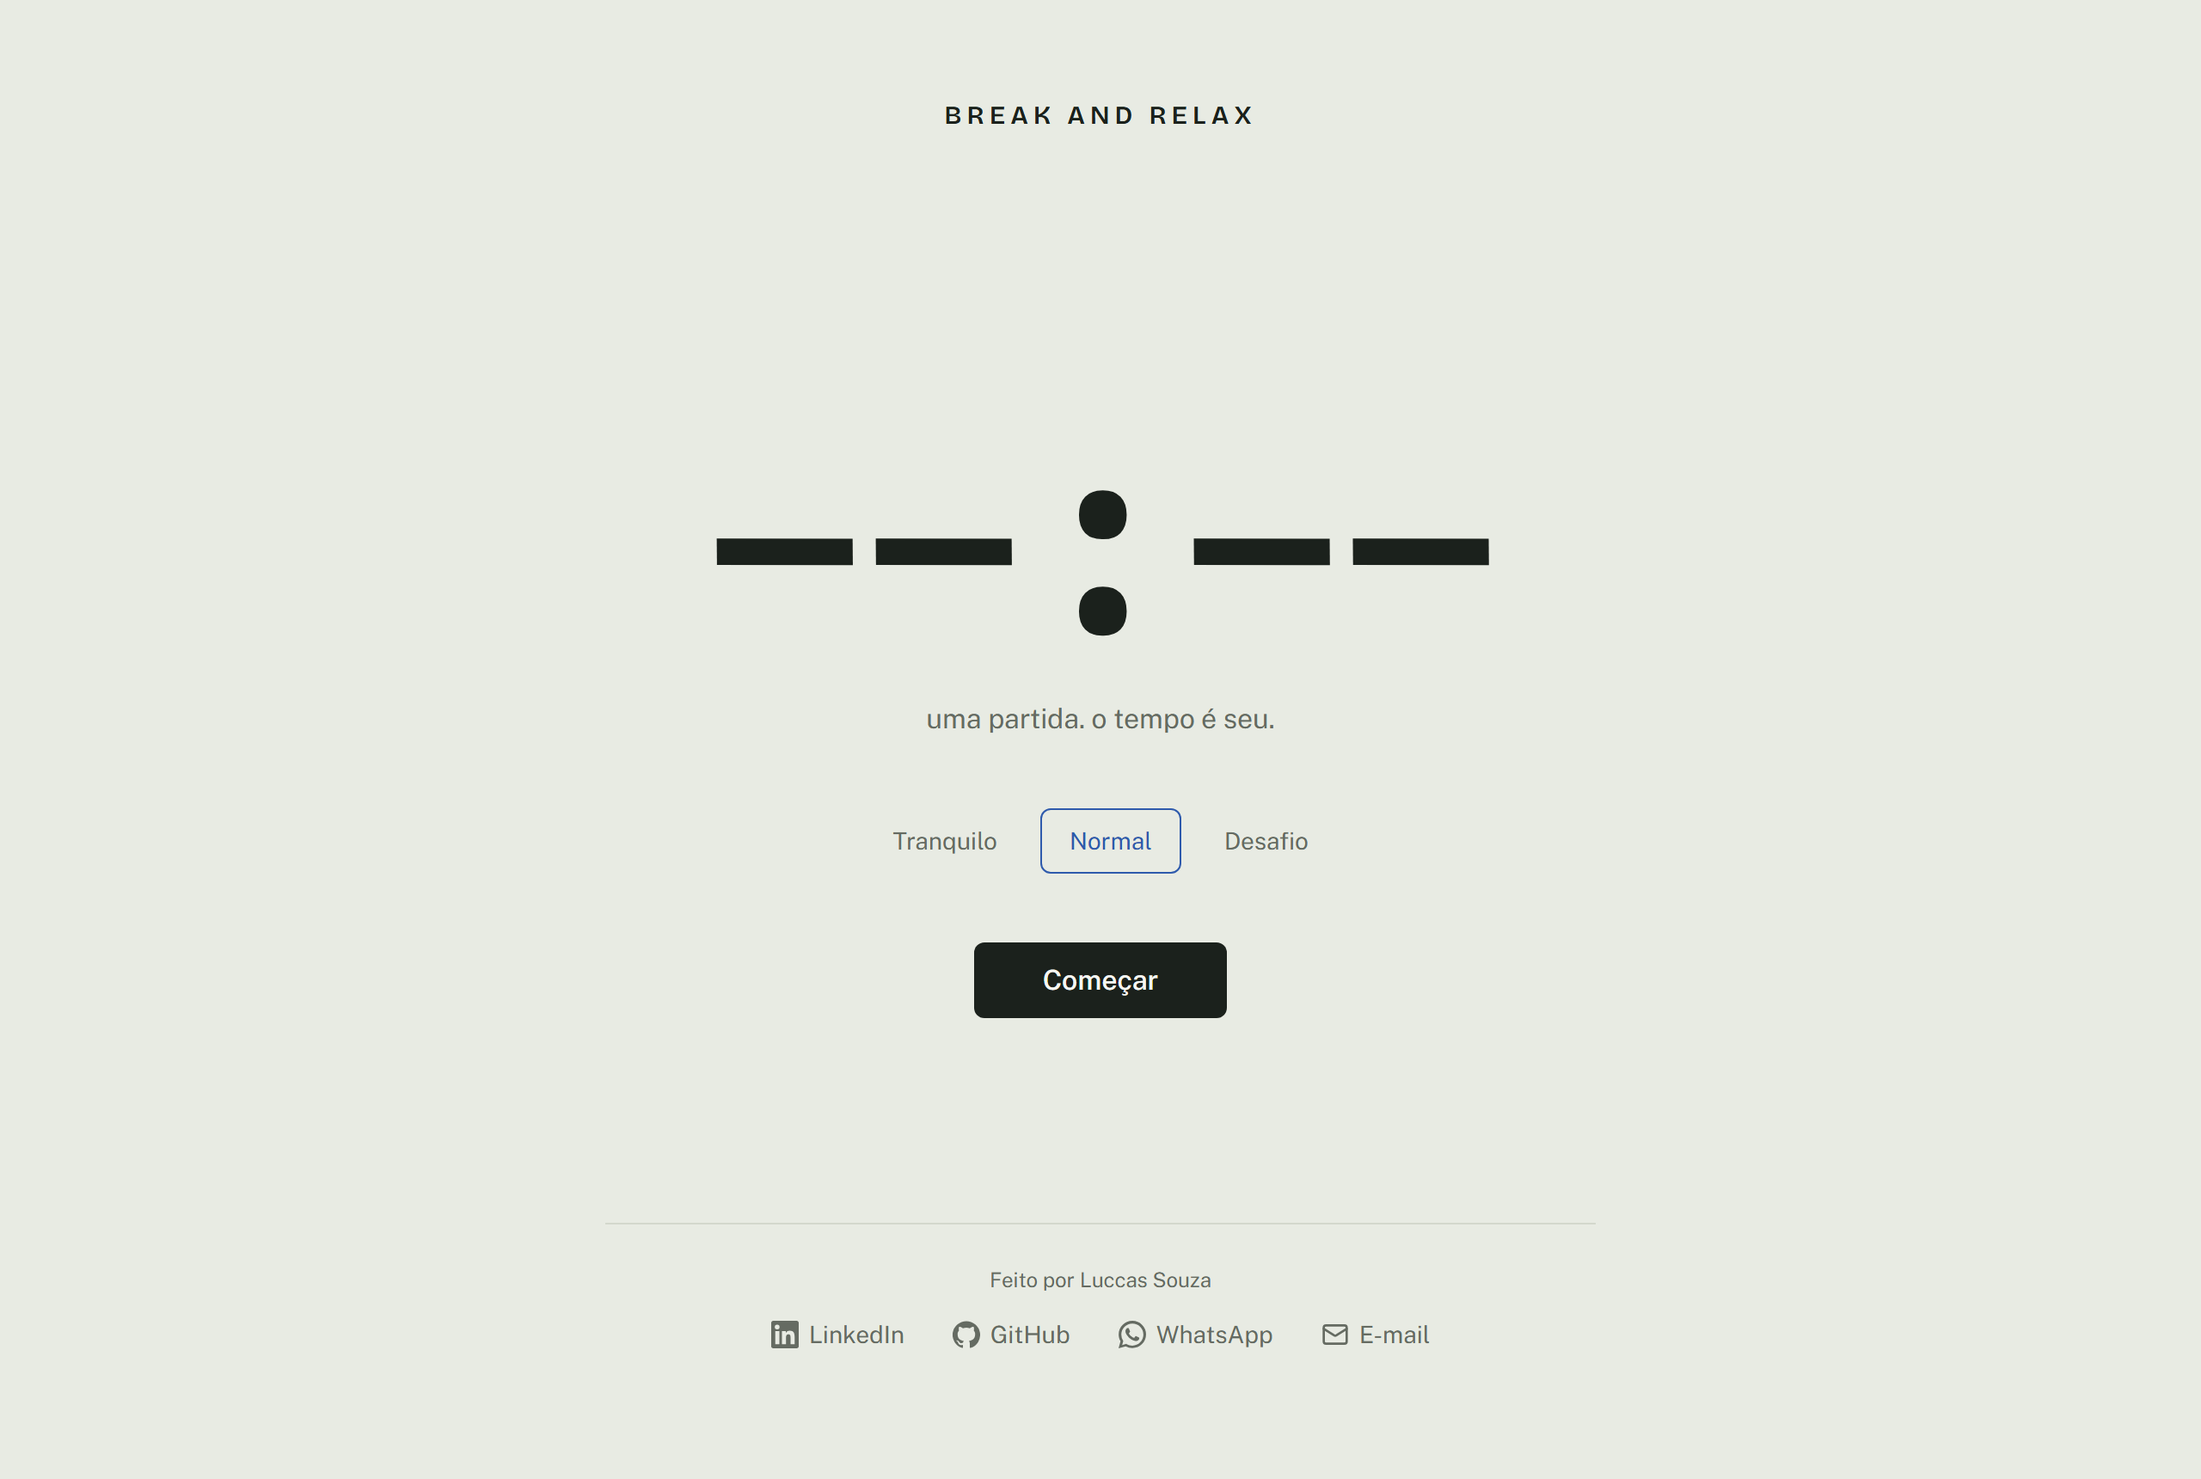
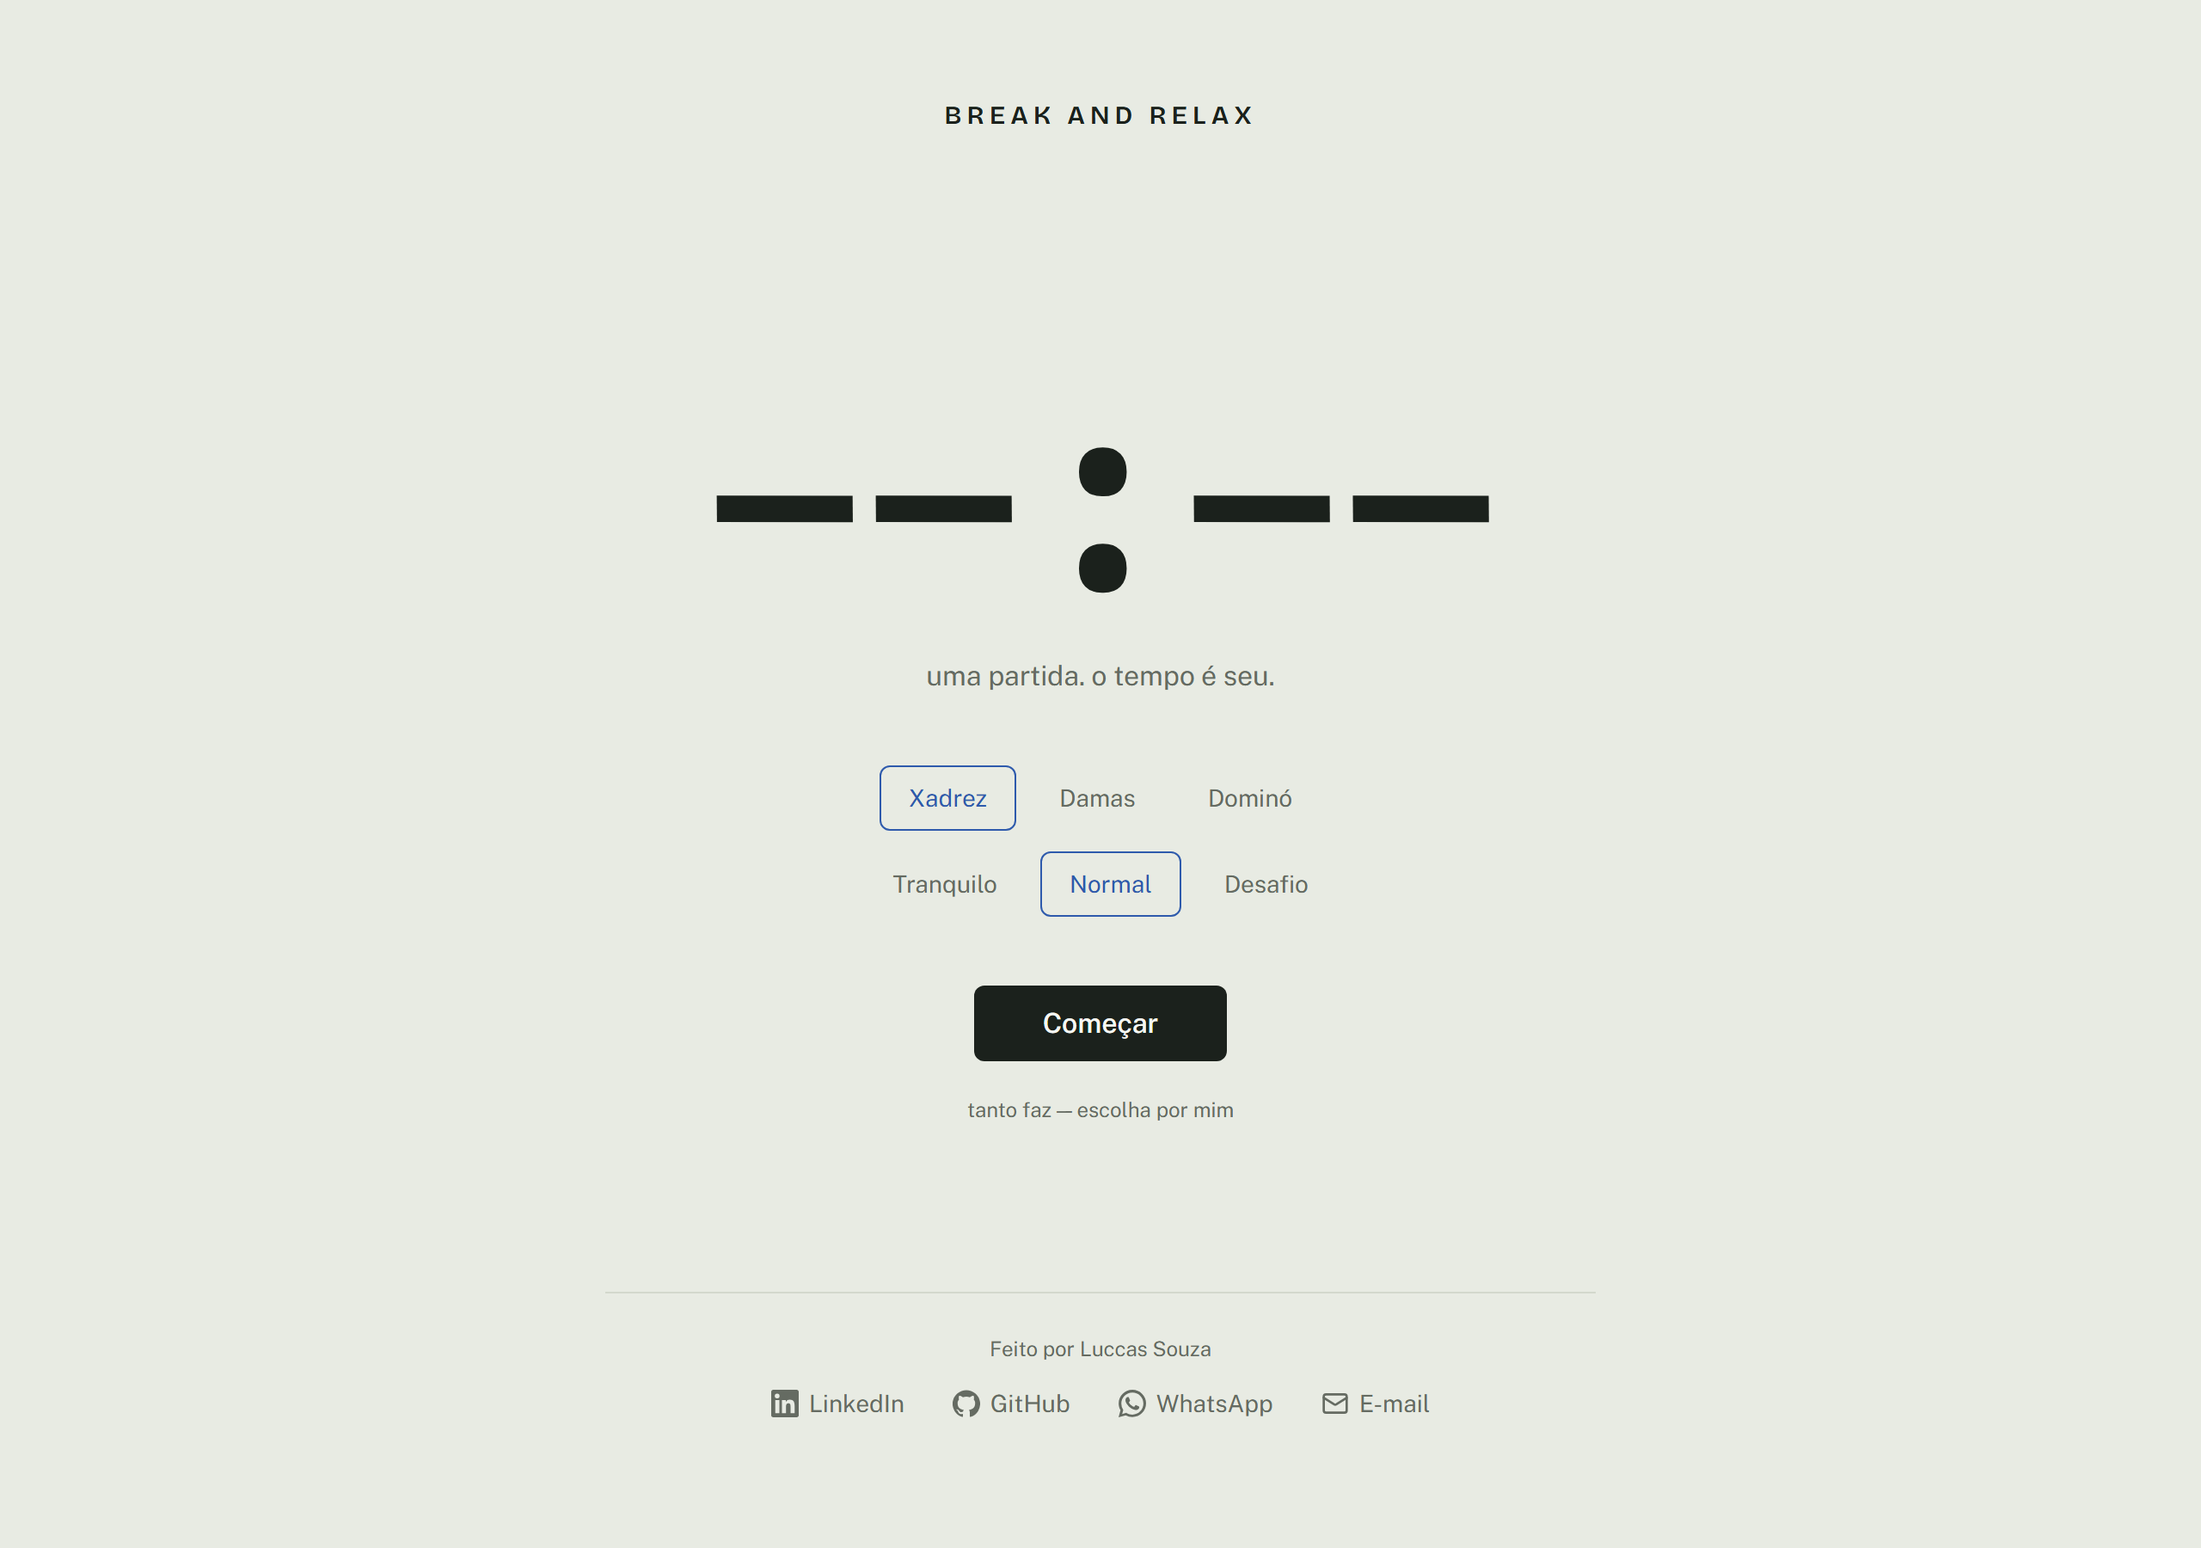
Verify the budgets and document the three games
Centring measured across all three games at 360, 768, 1440 and 2560px, with
the side column empty and full: 0.0px deviation in all twenty-four cases.

Architecture invariants checked against the production build, not asserted:
opening one game downloads only its own chunk, and the worker that is alive
during a match is gone once the match is left.

Budgets: initial 97.8 KB gzip against a 120 KB ceiling, chess 30.1 KB,
draughts 4.4 KB, dominoes 3.7 KB against 70 KB each, 152.2 KB total excluding
fonts against 400 KB. Lighthouse on this harness reads accessibility 100,
best practices 100, performance 88-91 — the same range the single-game build
measured here, so the two extra games cost nothing.

README rewritten around what actually carries the repository: the contract,
why the shell cannot know what a king is, why dominoes has no minimax, and
the draughts rules written out so nothing is ambiguous.

diff --git a/src/shell/TelaPartida.tsx b/src/shell/TelaPartida.tsx
@@ -194,7 +194,11 @@ export function TelaPartida({
       <div className="grid w-full grid-cols-1 items-start gap-4 md:grid-cols-[minmax(0,1fr)_auto_minmax(0,1fr)] md:gap-6">
         <div className="hidden min-w-0 md:block" aria-hidden="true" />
 
-        <div ref={tabuleiroRef} className="w-full justify-self-center md:w-[min(72vh,40rem)]">
+        <div
+          ref={tabuleiroRef}
+          data-centro
+          className="w-full justify-self-center md:w-[min(72vh,40rem)]"
+        >
           <Tabuleiro
             estado={estado}
             lancesLegais={lancesLegais}

diff --git a/README.md b/README.md
@@ -1,8 +1,8 @@
 # Break And Relax
 
-Um site de uma página onde alguém que está há horas trabalhando joga uma partida de xadrez contra a máquina, do começo ao fim, e volta ao trabalho. A ideia que governa o produto é simples: não queremos que você fique aqui, queremos que você faça uma pausa e volte melhor. O limite não é um cronômetro, é a partida acabar — não existe contagem regressiva, tempo por lance ou aviso de que a pausa está terminando. Sem cadastro, sem ranking, sem streak, sem notificação, sem anúncio. Quando a partida acaba, o site diz uma frase curta e para de falar.
+Um site de uma página onde alguém que está há horas trabalhando joga **uma** partida contra a máquina — xadrez, damas ou dominó —, entende como ela terminou, e volta ao trabalho. A ideia que governa o produto é simples: não queremos que você fique aqui, queremos que você faça uma pausa e volte melhor. O limite não é um cronômetro, é a partida acabar. Sem cadastro, sem ranking, sem streak, sem notificação, sem anúncio.
 
-O relógio é o elemento central da página justamente por não mandar em nada: abre mostrando `--:--`, some por completo durante o jogo, e volta no fim para dizer quanto tempo a pausa levou, quando isso já não importa mais.
+O relógio é o elemento central da página justamente por não mandar em nada: abre mostrando `--:--`, some por completo durante o jogo, e volta no fim contando de `00:00` até quanto a pausa levou — quando isso já não importa mais.
 
 ## Site
 
@@ -12,38 +12,101 @@ https://luccas-souza7.github.io/break-and-relax/
 
 ![Tela de início do Break And Relax](docs/tela-inicio.png)
 
+## Quem perdeu precisa entender por quê
+
+A tela de fim é o oposto de um "você perdeu". O tabuleiro **fica exatamente onde estava, em 100% de opacidade**, as casas que decidiram a partida acendem, e a explicação aparece embaixo — com as casas e as peças reais, nunca um texto genérico.
+
+![Tela de fim, com o mate destacado](docs/tela-fim.png)
+
+Três tipos de destaque: **decisivo** (vinho) responde "por que acabou"; **atacante** (azul) é quem executou; **bloqueado** (hachurado) são as casas para onde o rei não podia ir — é isso que faz um mate ou um afogamento fazer sentido de olhar.
+
 ## Stack
 
 - Vite + React 18 + TypeScript
 - Tailwind CSS v4 (plugin oficial do Vite)
-- chess.js — todas as regras do jogo
-- Motor próprio: minimax com poda alfa-beta, em Web Worker
+- chess.js — todas as regras do xadrez
+- Motor próprio: minimax com poda alfa-beta em Web Worker, um por jogo
 - GSAP (core) para a sequência de animação
 - shadcn/ui (`button`, `dialog`, `tooltip`) e lucide-react
 - Fontes auto-hospedadas via Fontsource: Bricolage Grotesque, Public Sans, Martian Mono
+- `vite-plugin-pwa` só para precache — sem manifesto, sem prompt de instalação
 - Deploy estático via GitHub Actions para GitHub Pages
 
-Não há backend, banco, API em runtime nem CDN. Depois do primeiro carregamento o site funciona offline.
+Não há backend, banco, API em runtime nem CDN.
 
-## Como o motor funciona
+## Arquitetura: uma casca, três jogos
 
-O código do motor está em `src/engine/`.
+O que sustenta este repositório não são os jogos, é a separação entre eles e a casca.
 
-**Avaliação** (`evaluation.ts`) — material (peão 100, cavalo 320, bispo 330, torre 500, dama 900), *piece-square tables* no estilo da avaliação simplificada de Michniewski, com tabela separada de rei para meio-jogo e final, mais um pequeno bônus de mobilidade. Xeque-mate vale ±100000 ajustado pela profundidade, para que um mate mais curto seja preferido.
+`src/shell/` renderiza as telas, cronometra, conversa com o worker e escreve o desfecho **sem saber que jogo está rodando**. Tudo chega por um contrato em [`src/types.ts`](src/types.ts):
 
-**Busca** (`search.ts`) — minimax em forma negamax com poda alfa-beta, ordenação de lances por MVV-LVA (capturas de peça valiosa por peça barata primeiro, promoções em seguida) e aprofundamento iterativo. Cada nível tem um teto rígido de tempo: quando o tempo acaba no meio de uma iteração, a iteração inteira é descartada e a resposta vem da última profundidade que terminou de verdade — uma profundidade pela metade joga pior que uma profundidade menor completa.
+```ts
+interface Jogo<Estado, Lance> {
+  id: 'xadrez' | 'damas' | 'domino'
+  nome: string
+  criarEstado(): Estado
+  lancesLegais(e: Estado): Lance[]
+  aplicar(e: Estado, l: Lance): Estado
+  encerrar(e: Estado): Estado
+  vezDe(e: Estado): 'humano' | 'maquina'
+  avaliarFim(e: Estado): Desfecho | null   // null = em andamento
+  historico(e: Estado): string[]
+  serializar(e: Estado): unknown           // o que o worker precisa ver
+  desserializarLance(e: Estado, bruto: unknown): Lance | null
+  Tabuleiro: ComponentType<PropsTabuleiro<Estado, Lance>>
+  Lateral?: ComponentType<PropsLateral<Estado>>
+  criarWorker(): Worker
+}
+```
 
-| Nível | Profundidade | Teto | Comportamento |
-|---|---|---|---|
-| Tranquilo | 1 | 600 ms | sorteia entre os 3 melhores lances com peso decrescente; não pune erro bobo |
-| Normal | até 3 | 600 ms | joga o melhor lance da busca |
-| Desafio | até 4 + quiescência em capturas | 1000 ms | joga o melhor lance da busca |
+Consequências que valem mais que o diagrama:
 
-A resposta da máquina é sempre segurada por no mínimo 350 ms, mesmo quando o cálculo termina antes: resposta instantânea parece bug e quebra o ritmo da pausa.
+- **Nada em `src/shell/` importa `src/games/*/rules.ts`.** A única menção a `src/games/` na casca é o `import()` dinâmico que carrega um jogo.
+- **Selecionar peça, escolher promoção e decidir em que ponta jogar são do jogo.** A casca recebe um lance pronto e nunca aprende o que é uma promoção.
+- **O `Desfecho` já chega escrito.** Título, explicação e casas para destacar vêm prontos — a casca não sabe o que é um rei.
+- **Um worker por jogo**, criado quando a partida começa e `terminate()` ao sair.
+- **Carregamento sob demanda.** Abrir o site e jogar xadrez não baixa o código de damas nem de dominó.
 
-**Por que Web Worker** — a busca do nível Desafio consome perto de um segundo de CPU por lance. Na thread principal isso congelaria a interface: a animação travaria e o clique não responderia. No worker a UI continua fluida enquanto a máquina pensa. O worker é *stateless* — cada requisição carrega o FEN da posição —, o que torna impossível o motor e o tabuleiro saírem de sincronia. Como o GitHub Pages não permite configurar os headers `Cross-Origin-Opener-Policy` e `Cross-Origin-Embedder-Policy`, nada aqui depende de `SharedArrayBuffer`; a comunicação é por mensagem.
+## Como os motores funcionam
 
-**Uma nota sobre o chess.js** (`internal.ts`) — as regras vêm inteiramente do chess.js, mas a busca não usa a API pública `moves({ verbose: true })`. Cada objeto `Move` que ela devolve regenera a lista completa de lances legais para desambiguar o SAN e serializa dois FENs (`before` e `after`). Medido numa posição de meio-jogo, isso dá cerca de 3000 µs por chamada contra cerca de 70 µs do gerador que está por baixo — 40 vezes mais caro, o que inviabiliza qualquer busca real. Por isso a busca chama o gerador diretamente. Nenhuma regra de xadrez é reimplementada: o que se evita é apenas a formatação que uma busca nunca lê. Tudo que o usuário toca continua passando pela API pública.
+`src/engine/minimax.ts` é genérico e serve xadrez e damas: minimax em forma negamax com poda alfa-beta, ordenação de lances, aprofundamento iterativo e teto rígido de tempo — quando o tempo acaba no meio de uma iteração, a iteração inteira é descartada e a resposta vem da última profundidade que terminou de verdade.
+
+Ele recebe `fazer`/`desfazer` sobre uma posição mutável, não um `aplicar` imutável. Isso é deliberado: o chess.js leva cerca de 70 µs para gerar os lances de uma posição, e clonar a posição a cada nó custaria mais que a própria busca.
+
+| Jogo | Tranquilo | Normal | Desafio | Teto por lance |
+|---|---|---|---|---|
+| Xadrez | prof. 1, sorteia entre os 3 melhores | prof. até 3 | prof. até 4 + quiescência | 600 / 600 / 1000 ms |
+| Damas | prof. 4, sorteia entre os 3 melhores | prof. 6 | prof. 8 | 600 / 600 / 1000 ms |
+| Dominó | lance legal ao acaso | heurística | heurística + inferência | 400 ms |
+
+Damas comporta profundidade muito maior que xadrez com o mesmo orçamento porque a captura obrigatória corta o fator de ramificação de forma agressiva.
+
+**Dominó não tem minimax, e não deveria ter.** É jogo de informação oculta: busca em árvore sobre um estado que a máquina não enxerga seria teatro. O worker recebe uma *vista* — a mesa, a própria mão, quantas pedras o usuário tem e o tamanho do dorme — e nunca a mão do adversário. No nível Desafio ela registra os números em que o usuário passou e usa isso.
+
+A resposta da máquina é sempre segurada por no mínimo 350 ms nos três jogos: resposta instantânea parece bug e quebra o ritmo da pausa.
+
+**Por que Web Worker** — a busca do Desafio no xadrez consome perto de um segundo de CPU por lance. Na thread principal isso congelaria a interface. Como o GitHub Pages não permite configurar `Cross-Origin-Opener-Policy` e `Cross-Origin-Embedder-Policy`, nada aqui depende de `SharedArrayBuffer`.
+
+**Uma nota sobre o chess.js** ([`internoChessJs.ts`](src/games/xadrez/internoChessJs.ts)) — as regras vêm inteiramente do chess.js, mas a busca não usa a API pública `moves({ verbose: true })`. Cada objeto `Move` que ela devolve regenera a lista completa de lances legais para desambiguar o SAN e serializa dois FENs. Medido numa posição de meio-jogo, isso dá cerca de 3000 µs por chamada contra cerca de 70 µs do gerador que está por baixo — 40 vezes mais caro, o que inviabiliza qualquer busca real. Nenhuma regra é reimplementada; o que se evita é a formatação que uma busca nunca lê.
+
+## Regras implementadas
+
+### Damas (brasileiras)
+
+Escritas do zero em [`src/games/damas/rules.ts`](src/games/damas/rules.ts), sem biblioteca. As quatro que decidem partidas:
+
+1. **Captura é obrigatória** — havendo captura, nenhum lance simples é legal.
+2. **Lei da maioria** — entre as sequências possíveis, é obrigatório escolher a que captura mais peças. Empate na quantidade, escolha livre. Sem lei da qualidade e sem sopro.
+3. **Promoção só ao terminar** na última fileira. Uma pedra que apenas *passa* por ela no meio de uma captura continua pedra.
+4. **Dama voa**: anda e captura à distância, pousando em qualquer casa livre depois da peça capturada. Nunca se saltam duas peças coladas, e as capturadas só saem do tabuleiro no fim da sequência — até lá elas ainda bloqueiam.
+
+Na interface, uma captura múltipla é percorrida **um salto por vez**: a peça fica selecionada e só o próximo destino acende.
+
+### Dominó
+
+Duplo-seis, uma mão. Sete pedras para cada lado, catorze no dorme. Começa quem tem a carroça mais alta. Joga-se nas **duas pontas** — carroça entra atravessada, que é como dominó se parece, mas não abre terceira ponta. Sem pedra jogável, compra do dorme até conseguir; dorme vazio, passa. Vence quem bate; dois passes seguidos com dorme vazio trancam o jogo e ganha quem tem menos pontos na mão.
+
+No fim, **a mão da máquina é revelada** — sem isso não há como conferir a contagem.
 
 ## Como rodar local
 
@@ -55,17 +118,15 @@ npm i
 npm run dev
 ```
 
-Para gerar a build de produção:
+Para conferir a build de produção:
 
 ```bash
-npm run build
+npm run preview
 ```
 
-A build é um bundle clássico com caminhos relativos e o motor embutido, então `dist/index.html` também funciona aberto direto do disco, com dois cliques — sem servidor. É o mesmo arquivo que vai para o GitHub Pages.
+## Peças de xadrez
 
-## Peças
-
-O conjunto de peças é o **Cburnett**, de Colin M. L. Burnett, distribuído sob [CC BY-SA 3.0](https://creativecommons.org/licenses/by-sa/3.0/). Os arquivos estão em `src/assets/pieces/`, sem modificações. É o mesmo conjunto usado pelo Lichess.
+O conjunto é o **Cburnett**, de Colin M. L. Burnett, distribuído sob [CC BY-SA 3.0](https://creativecommons.org/licenses/by-sa/3.0/). Os arquivos estão em `src/assets/pieces/`, sem modificações. É o mesmo conjunto usado pelo Lichess. As peças de damas e as pedras de dominó são desenhadas em SVG/CSS na paleta do projeto.
 
 ## Licença
 
